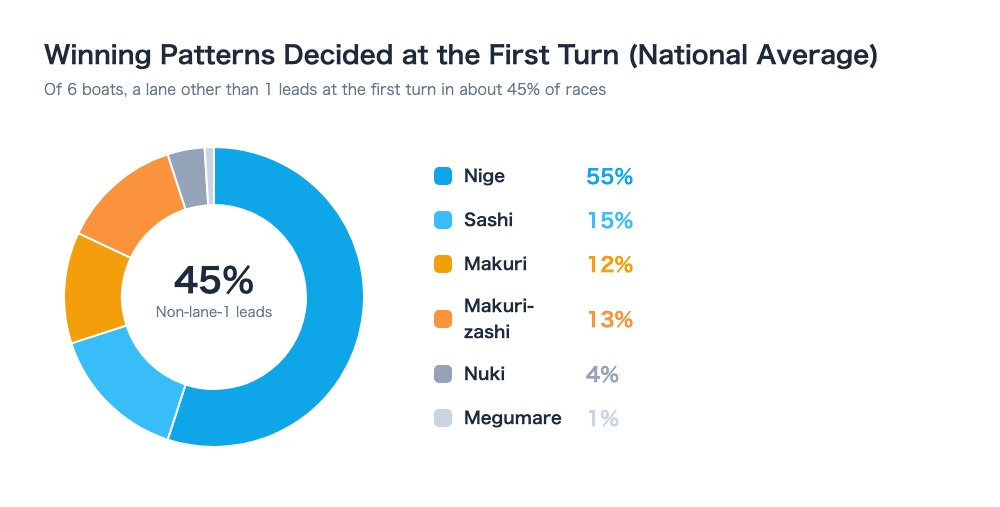
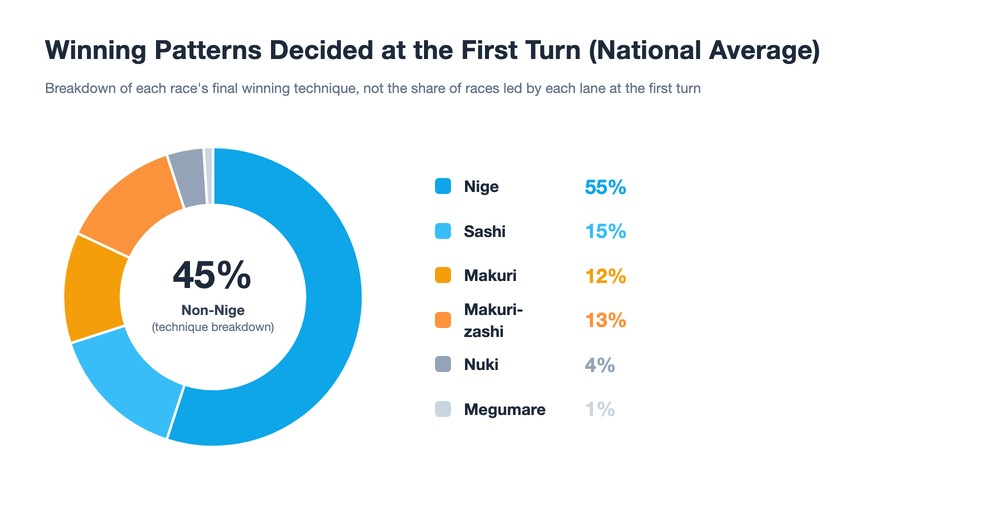
fix: スジと1マーク展開の記事で、照合の不一致4点を直す
- スジ（S02）: 逆スジを「ありえない目」から「来にくい目」にそろえ、例である旨を足す
- スジ（S07）: スタート展示は参考で、本番の進入・スタートは変わり得ることを書く
- 1マーク展開（F03）: 決まり手の内訳と1マーク先頭コースの割合を別と書き、ALTと画像中央・副題を直す
- 1マーク展開（F05）: 勝ったレースの決まり手の内訳と、全出走での差し1着確率を区別する
- 1マーク展開（F09）: 画面に無いアニメーションの節とまとめ行を、AI予想タブと龍神ソナーの案内にする
- en / zh-TW / ko にも同じ趣旨で入れ、4言語の画像を同じサイズで作り直す

diff --git a/public/blog/first-mark-prediction-guide-en.md b/public/blog/first-mark-prediction-guide-en.md
@@ -21,9 +21,9 @@ Unlike horse racing or bicycle racing, boat racing takes place **on the water**.
 | **Nuki (slip-through)** | A pass that happens after the 2nd turn onward | ~4% |
 | **Megumare (lucky win)** | A boat moves up after the leader crashes or capsizes | ~1% |
 
-Lane 1's wire-to-wire win accounts for about 55%, but in the remaining 45%, **a boat from lanes 2–6 overtakes at the first mark**. Being able to predict that 45% opens up real opportunities for higher-payout bets.
+By winning technique, Nige accounts for about 55% and techniques other than Nige for about 45%. Note that this table is a breakdown of each race's final winning technique, and it also includes techniques such as Nuki that are decided after the 2nd turn onward. **The winning-technique breakdown is not the same as the share of races in which each lane leads at the first mark.** Being able to predict developments that end in a technique other than Nige opens up real opportunities for higher-payout bets.
 
-![Donut chart showing the breakdown of winning patterns decided at the first mark: Nige 55%, Sashi 15%, Makuri 12%, Makuri-zashi 13%, Nuki 4%, and Megumare 1%, with the 45% share held by lanes other than 1 highlighted at the center](/images/blog/first-mark-kimarite-donut-en.jpg)
+![Donut chart showing the breakdown of winning techniques: Nige 55%, Sashi 15%, Makuri 12%, Makuri-zashi 13%, Nuki 4%, and Megumare 1%, with the combined 45% for techniques other than Nige shown at the center (not the share of races led by a lane other than 1 at the first mark)](/images/blog/first-mark-kimarite-donut-en.jpg)
 
 ---
 
@@ -44,7 +44,7 @@ For example, if a racer's record from lane 2 is:
 - Overtake: 25%
 - Overtake-and-pass: 10%
 
-then, if this racer draws lane 2, the model can predict a high probability they'll win via an inside pass.
+then this racer's wins from lane 2 come mostly via an inside pass. Note, however, that this example is the breakdown of winning techniques in the races they won from lane 2. It is not the same as the probability of winning via an inside pass across all of their starts from lane 2.
 
 #### 2. Lane-1 defensive strength (defensive pattern)
 
@@ -85,15 +85,9 @@ The model calculates **each racer's overall ability** from their national win ra
 
 Ryujin Radar's race detail page shows the turn prediction **two ways**.
 
-### 1. The turn-prediction animation
+### 1. The "AI Prediction" tab and "Ryujin Sonar"
 
-Shows how the race is expected to unfold at the first mark, as a **visual animation**.
-
-- Each boat's path from the start toward the turn mark
-- Who's likely to round the turn mark first
-- The most probable winning-technique pattern
-
-Watching the animation gives you an intuitive read on things like "the inside looks likely to win wire-to-wire in this race" or "lane 3 looks primed for an overtake."
+On the race detail page, the "AI Prediction" tab shows the candidates likely to finish 1st, ranked by probability. To check past developments under specific conditions, open the separate "Ryujin Sonar" tab.
 
 ### 2. The detailed turn-data table
 
@@ -176,7 +170,7 @@ Ryujin Radar's turn prediction provides **the reasoning behind a race's developm
 2. **Lane 1's defensive strength**: whether the inside can hold wire-to-wire
 3. **ST data**: same-day start feel combined with long-term ability
 4. **Motor performance**: its effect on the odds of an overtake or inside pass landing
-5. **Animated display**: an intuitive way to grasp how the race will unfold
+5. **The "AI Prediction" tab and "Ryujin Sonar"**: see 1st-place candidates ranked by probability, and check past developments under specific conditions
 
 When you wonder "why is the AI favoring lane 1?", the turn prediction is the feature that **shows you the reasoning behind it, backed by data**.
 

diff --git a/public/blog/first-mark-prediction-guide.md b/public/blog/first-mark-prediction-guide.md
@@ -21,9 +21,9 @@
 | **抜き** | 2マーク以降で追い抜く | 約4% |
 | **恵まれ** | 先行艇の事故・転覆で繰り上がり | 約1% |
 
-1コースの逃げが約55%を占めますが、残り45%では**2〜6コースの艇が1マークで逆転**しています。この45%の展開を予測できれば、高配当の舟券を狙うチャンスが広がります。
+決まり手で見ると、逃げが約55%、逃げ以外が約45%です。ただし、この表はレースの最終的な決まり手の内訳で、抜きのように2マーク以降で決まるものも含みます。**決まり手の内訳と、1マークで先頭に立ったコースの割合は別です。** 逃げ以外の決まり手になる展開を予測できれば、高配当の舟券を狙うチャンスが広がります。
 
-![1マークで決まる展開パターンの内訳を示すドーナツグラフ。逃げ55%、差し15%、まくり12%、まくり差し13%、抜き4%、恵まれ1%の割合を色分けして表示し、中央に1コース以外が先頭に立つ割合45%を強調表示](/images/blog/first-mark-kimarite-donut-ja.jpg)
+![決まり手の内訳を示すドーナツグラフ。逃げ55%、差し15%、まくり12%、まくり差し13%、抜き4%、恵まれ1%の割合を色分けして表示し、中央に逃げ以外の決まり手の合計45%を表示（1マークで先頭に立ったコースの割合ではない）](/images/blog/first-mark-kimarite-donut-ja.jpg)
 
 ---
 
@@ -44,7 +44,7 @@
 - まくり: 25%
 - まくり差し: 10%
 
-であれば、この選手が2コースに入った場合、差しで1着になる確率が高いと予測できます。
+という場合、この選手は2コースで勝つときに差しが多いと読めます。ただし、この例は2コースで勝ったレースの決まり手の内訳です。2コースの全出走に対する、差しで1着になる確率とは異なります。
 
 #### 2. 1コース防御力（防御パターン）
 
@@ -85,15 +85,9 @@
 
 龍神レーダーのレース詳細ページでは、展開予測を**2つの方法**で表示しています。
 
-### 1. 展開予測アニメーション
+### 1. 「AI予想」タブと「龍神ソナー」
 
-1マーク旋回時の展開を**視覚的にアニメーション**で表示します。
-
-- 各艇がスタートからターンマークに向かう様子
-- 誰が先にターンマークを回るか
-- 最有力の決まり手パターン
-
-アニメーションを見れば、「このレースはインが逃げそう」「3コースのまくりが入りそう」といった展開が直感的に分かります。
+レース詳細の「AI予想」タブでは、1着候補が確率順に表示されます。過去の展開を条件付きで確かめる場合は、別タブの「龍神ソナー」を開きます。
 
 ### 2. 超展開データテーブル
 
@@ -176,7 +170,7 @@
 2. **1コースの防御力**: インが逃げ切れるかどうか
 3. **STデータ**: 当日のスタート感覚と長期的な実力
 4. **モーター性能**: まくりや差しの成功確率への影響
-5. **アニメーション表示**: 直感的に展開を把握
+5. **「AI予想」タブと「龍神ソナー」**: 1着候補を確率順で確認し、過去の展開は条件付きで確かめる
 
 「AIが1号艇を推しているけど、なぜ？」という疑問に対して、展開予測は**根拠をデータで示してくれる**機能です。
 

diff --git a/public/blog/first-mark-prediction-guide-ko.md b/public/blog/first-mark-prediction-guide-ko.md
@@ -21,9 +21,9 @@
 | **누키(빼기)** | 2마크 이후에 추월 | 약4% |
 | **행운승** | 선행정의 사고・전복으로 순위 상승 | 약1% |
 
-1코스의 도주가 약55%를 차지하지만, 나머지 45%는 **2~6코스의 정이 1마크에서 역전**하고 있습니다. 이 45%의 전개를 예측할 수 있다면, 고배당 마권을 노릴 기회가 넓어집니다.
+결정기술로 보면 도주가 약55%, 도주 이외가 약45%입니다. 다만 이 표는 레이스의 최종 결정기술 내역으로, 누키처럼 2마크 이후에 결정되는 것도 포함합니다. **결정기술 내역과 1마크에서 선두에 선 코스의 비율은 다릅니다.** 도주 이외의 결정기술로 끝나는 전개를 예측할 수 있다면, 고배당 마권을 노릴 기회가 넓어집니다.
 
-![1마크에서 결정되는 전개 패턴의 내역을 보여주는 도넛 그래프. 도주 55%, 사시 15%, 마쿠리 12%, 마쿠리사시 13%, 누키 4%, 행운승 1%의 비율을 색상별로 표시하고, 중앙에 1코스 이외가 선두에 서는 비율 45%를 강조 표시](/images/blog/first-mark-kimarite-donut-ko.jpg)
+![결정기술 내역을 보여주는 도넛 그래프. 도주 55%, 사시 15%, 마쿠리 12%, 마쿠리사시 13%, 누키 4%, 행운승 1%의 비율을 색상별로 표시하고, 중앙에 도주 이외 결정기술의 합계 45%를 표시(1마크에서 1코스 이외가 선두에 서는 비율이 아님)](/images/blog/first-mark-kimarite-donut-ko.jpg)
 
 ---
 
@@ -44,7 +44,7 @@
 - 마쿠리: 25%
 - 마쿠리사시: 10%
 
-라면, 이 선수가 2코스에 들어갈 경우 사시로 1착이 될 확률이 높다고 예측할 수 있습니다.
+라면, 이 선수는 2코스에서 이길 때 사시가 많다고 볼 수 있습니다. 다만 이 예는 2코스에서 이긴 레이스의 결정기술 내역입니다. 2코스 전체 출주에 대한, 사시로 1착이 될 확률과는 다릅니다.
 
 #### 2. 1코스 방어력(방어 패턴)
 
@@ -85,15 +85,9 @@
 
 용신 레이더의 레이스 상세 페이지에서는 전개예측을 **2가지 방법**으로 표시하고 있습니다.
 
-### 1. 전개예측 애니메이션
+### 1. 「AI 예상」 탭과 「용신 소나」
 
-1마크 회전 시의 전개를 **시각적인 애니메이션**으로 표시합니다.
-
-- 각 정이 스타트부터 턴마크로 향하는 모습
-- 누가 먼저 턴마크를 도는가
-- 가장 유력한 결정기술 패턴
-
-애니메이션을 보면 「이 레이스는 인코스가 도주할 것 같다」「3코스의 마쿠리가 들어갈 것 같다」와 같은 전개를 직관적으로 알 수 있습니다.
+레이스 상세의 「AI 예상」 탭에서는 1착 후보가 확률순으로 표시됩니다. 과거 전개를 조건별로 확인하려면 별도 탭인 「용신 소나」를 엽니다.
 
 ### 2. 초전개 데이터 테이블
 
@@ -176,7 +170,7 @@
 2. **1코스의 방어력**: 인코스가 도주에 성공할 수 있는가
 3. **ST 데이터**: 당일 스타트 감각과 장기적인 실력
 4. **모터 성능**: 마쿠리나 사시의 성공 확률에 미치는 영향
-5. **애니메이션 표시**: 직관적으로 전개를 파악
+5. **「AI 예상」 탭과 「용신 소나」**: 1착 후보를 확률순으로 확인하고, 과거 전개는 조건별로 확인
 
 「AI가 1번정을 추천하고 있는데, 왜?」라는 의문에 대해, 전개예측은 **근거를 데이터로 보여주는** 기능입니다.
 

diff --git a/public/blog/first-mark-prediction-guide-zh-tw.md b/public/blog/first-mark-prediction-guide-zh-tw.md
@@ -21,9 +21,9 @@
 | **超越** | 第2轉彎標以後追過 | 約4% |
 | **幸運勝出** | 因領先艇意外・翻覆而遞補 | 約1% |
 
-1航道逃走約佔55%，但剩下的45%是**2〜6航道的艇在1轉彎逆轉**。若能預測這45%的走勢，就能拓展鎖定高派彩投注組合的機會。
+以決勝技巧來看，逃走約佔55%，逃走以外約佔45%。不過，此表格是比賽最終決勝技巧的比例，也包含像超越這樣在第2轉彎標以後才決定的情況。**決勝技巧的比例，與在1轉彎領先的航道比例是不同的。** 若能預測以逃走以外的決勝技巧收場的走勢，就能拓展鎖定高派彩投注組合的機會。
 
-![甜甜圈圖顯示第1轉彎標決定的展開型態比例：逃走55%、切入15%、外攻12%、外攻切入13%、超越4%、幸運勝出1%，中央強調顯示非1號艇領先的比例45%](/images/blog/first-mark-kimarite-donut-zh-tw.jpg)
+![甜甜圈圖顯示決勝技巧的比例：逃走55%、切入15%、外攻12%、外攻切入13%、超越4%、幸運勝出1%，中央顯示逃走以外的決勝技巧合計45%（並非在1轉彎由1航道以外領先的比例）](/images/blog/first-mark-kimarite-donut-zh-tw.jpg)
 
 ---
 
@@ -44,7 +44,7 @@
 - 外攻：25%
 - 外攻切入：10%
 
-若此選手進入2航道，即可預測其以切入取得第一名的機率較高。
+此時可解讀為此選手在2航道獲勝時多以切入取勝。不過，此例是此選手在2航道獲勝的比賽中的決勝技巧比例，與2航道所有出賽中以切入取得第一名的機率不同。
 
 #### 2. 1航道防守力（防守模式）
 
@@ -85,15 +85,9 @@
 
 龍神雷達的比賽詳情頁面，以**2種方式**顯示展開預測。
 
-### 1. 展開預測動畫
+### 1. 「AI預測」分頁與「龍神聲納」
 
-以**視覺化動畫**顯示1轉彎迴旋時的走勢。
-
-- 各艇從起跑到轉彎標的航行狀況
-- 誰會率先轉過轉彎標
-- 最有可能的決勝技巧模式
-
-看動畫就能直覺理解「這場比賽內道似乎會逃走成功」「3航道似乎會外攻成功」等走勢。
+比賽詳情的「AI預測」分頁會依機率排序顯示第一名候選。若要依條件確認過去的走勢，請開啟另一個「龍神聲納」分頁。
 
 ### 2. 超展開數據表格
 
@@ -176,7 +170,7 @@
 2. **1航道的防守力**：內道是否能逃走成功
 3. **ST數據**：當天的起跑感覺與長期實力
 4. **馬達性能**：對外攻或切入成功機率的影響
-5. **動畫顯示**：直覺掌握走勢
+5. **「AI預測」分頁與「龍神聲納」**：依機率排序確認第一名候選，並依條件確認過去的走勢
 
 對於「AI為什麼推薦1號艇？」的疑問，展開預測正是能**用數據呈現依據**的功能。
 

diff --git a/public/blog/suji-funaken-guide-en.md b/public/blog/suji-funaken-guide-en.md
@@ -50,7 +50,8 @@ Because of this, **the winning boat's lane determines which boats are likely to 
 
 **Key points:**
 - When lane 1 wins wire-to-wire, the outside lanes 5 and 6 generally don't factor in
-- "1-2-6" and "1-5-6" are **against the suji (essentially unlikely combinations)**
+- "1-2-6" and "1-5-6" are **against the suji (combinations that are less likely to come in)**
+- The suji listed here are examples for thinking through race development. Combinations you leave out of your candidates can still come in
 
 ---
 
@@ -167,12 +168,12 @@ Cutting just 2 combinations already improves your return rate.
 
 ### Strategy 2: Choose a suji from your predicted race development
 
-**Watch the start exhibition, predict the development, and pick your suji accordingly**
+**Use the start exhibition as a reference to predict the development, and pick your suji accordingly**
 
 ```
 [Predicted development]
-- Lane 1's start looks slow
-- Lane 4's start looks fast and likely to overtake
+- Lane 1's start was slow in the exhibition
+- Lane 4's start was fast in the exhibition, and it may go for an overtake in the actual race
 → Go with the lane-4 overtake suji
 
 [Bets]
@@ -180,6 +181,8 @@ Cutting just 2 combinations already improves your return rate.
 4-5-1 (inside holds on)
 4-3-5 (lane 3 holds for 2nd)
 ```
+
+The start exhibition is only a reference. The approach and start in the actual race can differ from the exhibition, so don't treat the exhibition's lineup or ST as the actual race lineup.
 
 ---
 
@@ -253,7 +256,7 @@ Combining Ryujin Radar's predictions with suji theory sharpens your accuracy eve
 **A. Suji alone won't guarantee a win.**
 
 Suji only represents "the pattern that tends to come up" — not a certainty. What matters just as much:
-- Reading the race development from the start exhibition
+- Reading the race development with the start exhibition as a reference (the actual race's approach and start can differ from the exhibition)
 - Racer ability and motor performance
 - The effects of wind and waves
 

diff --git a/public/blog/suji-funaken-guide-ko.md b/public/blog/suji-funaken-guide-ko.md
@@ -50,7 +50,8 @@
 
 **포인트:**
 - 1번정이 도주하면 바깥쪽 5, 6번정은 기본적으로 오지 않음
-- 「1-2-6」「1-5-6」은 **역스지(있을 수 없는 목)**
+- 「1-2-6」「1-5-6」은 **역스지(오기 어려운 목)**
+- 여기서 든 스지는 전개를 생각하기 위한 예입니다. 후보에 넣지 않은 조합도 나올 수 있습니다
 
 ---
 
@@ -167,12 +168,12 @@
 
 ### 전략2: 전개 예상에서 스지를 선택하기
 
-**전시 항주를 보고 전개를 예상해 스지를 정함**
+**전시 항주를 참고해 전개를 예상하고 스지를 정함**
 
 ```
 【전개 예상】
-・1번정 스타트가 느림
-・4번정이 스타트가 빠르고 마쿠리할 것 같음
+・전시에서 1번정 스타트가 느렸음
+・전시에서 4번정 스타트가 빨랐고, 본 레이스에서도 마쿠리할 가능성이 있음
 → 4번정 마쿠리의 스지 채택
 
 【구매 조합】
@@ -180,6 +181,8 @@
 4-5-1(인코스 버티기)
 4-3-5(3번정 남음)
 ```
+
+전시 항주는 참고용입니다. 본 레이스의 진입이나 스타트는 전시와 달라질 수 있으므로, 전시의 대열이나 ST를 그대로 본 레이스의 대열로 여기지 마세요.
 
 ---
 
@@ -253,7 +256,7 @@
 **A. 스지만으로는 이길 수 없습니다.**
 
 스지는 어디까지나 「오기 쉬운 패턴」이며 100%가 아닙니다. 중요한 것은:
-- 전시 항주에서의 전개 예상
+- 전시 항주를 참고한 전개 예상(본 레이스의 진입・스타트는 전시와 달라질 수 있음)
 - 선수의 실력과 모터 성능
 - 바람과 파도의 영향
 

diff --git a/public/blog/suji-funaken-guide.md b/public/blog/suji-funaken-guide.md
@@ -50,7 +50,8 @@
 
 **ポイント：**
 - 1号艇が逃げると、外の5,6号艇は基本的に来ない
-- 「1-2-6」「1-5-6」は**逆スジ（ありえない目）**
+- 「1-2-6」「1-5-6」は**逆スジ（来にくい目）**
+- ここで挙げるスジは展開を考えるための例です。候補に含めない組合せも起こり得ます
 
 ---
 
@@ -167,12 +168,12 @@
 
 ### 戦略2: 展開予想からスジを選ぶ
 
-**スタート展示を見て展開を予想し、スジを決める**
+**スタート展示を参考に展開を予想し、スジを決める**
 
 ```
 【展開予想】
-・1号艇のスタートが遅い
-・4号艇がスタート早く、まくりそう
+・展示では1号艇のスタートが遅かった
+・展示では4号艇のスタートが早く、本番でもまくりに行く可能性がある
 → 4号艇まくりのスジを採用
 
 【買い目】
@@ -180,6 +181,8 @@
 4-5-1（イン粘り）
 4-3-5（3号艇残り）
 ```
+
+スタート展示は参考です。本番の進入やスタートは展示と変わることがあるため、展示の並びやSTをそのまま本番の並びとは考えないようにしましょう。
 
 ---
 
@@ -253,7 +256,7 @@
 **A. スジだけでは勝てません。**
 
 スジはあくまで「来やすいパターン」であり、100%ではありません。重要なのは：
-- スタート展示での展開予想
+- スタート展示を参考にした展開予想（本番の進入・スタートは展示と変わることがあります）
 - 選手の実力とモーター性能
 - 風や波の影響
 

diff --git a/public/blog/suji-funaken-guide-zh-tw.md b/public/blog/suji-funaken-guide-zh-tw.md
@@ -50,7 +50,8 @@
 
 **要點：**
 - 1號艇逃走時，外側的5,6號艇基本上不會進榜
-- 「1-2-6」「1-5-6」是**逆筋（不太可能的組合）**
+- 「1-2-6」「1-5-6」是**逆筋（不易出現的組合）**
+- 這裡列舉的筋是用來思考走勢的範例，未列入候選的組合也可能出現
 
 ---
 
@@ -167,12 +168,12 @@
 
 ### 策略2：從走勢預測選擇筋
 
-**觀看起跑展示預測走勢，決定筋**
+**參考起跑展示預測走勢，決定筋**
 
 ```
 【走勢預測】
-・1號艇起跑較慢
-・4號艇起跑快，似乎會外攻
+・展示中1號艇起跑較慢
+・展示中4號艇起跑快，正式比賽也可能外攻
 → 採用4號艇外攻筋
 
 【投注組合】
@@ -180,6 +181,8 @@
 4-5-1（內道苦守）
 4-3-5（3號艇保住）
 ```
+
+起跑展示僅供參考。正式比賽的進場與起跑可能與展示不同，請勿將展示的隊形或ST直接視為正式比賽的隊形。
 
 ---
 
@@ -253,7 +256,7 @@
 **A. 光靠筋無法獲勝。**
 
 筋終究只是「容易出現的模式」，並非100%。重要的是：
-- 從起跑展示預測走勢
+- 參考起跑展示預測走勢（正式比賽的進場與起跑可能與展示不同）
 - 選手實力與馬達性能
 - 風與浪的影響
 
